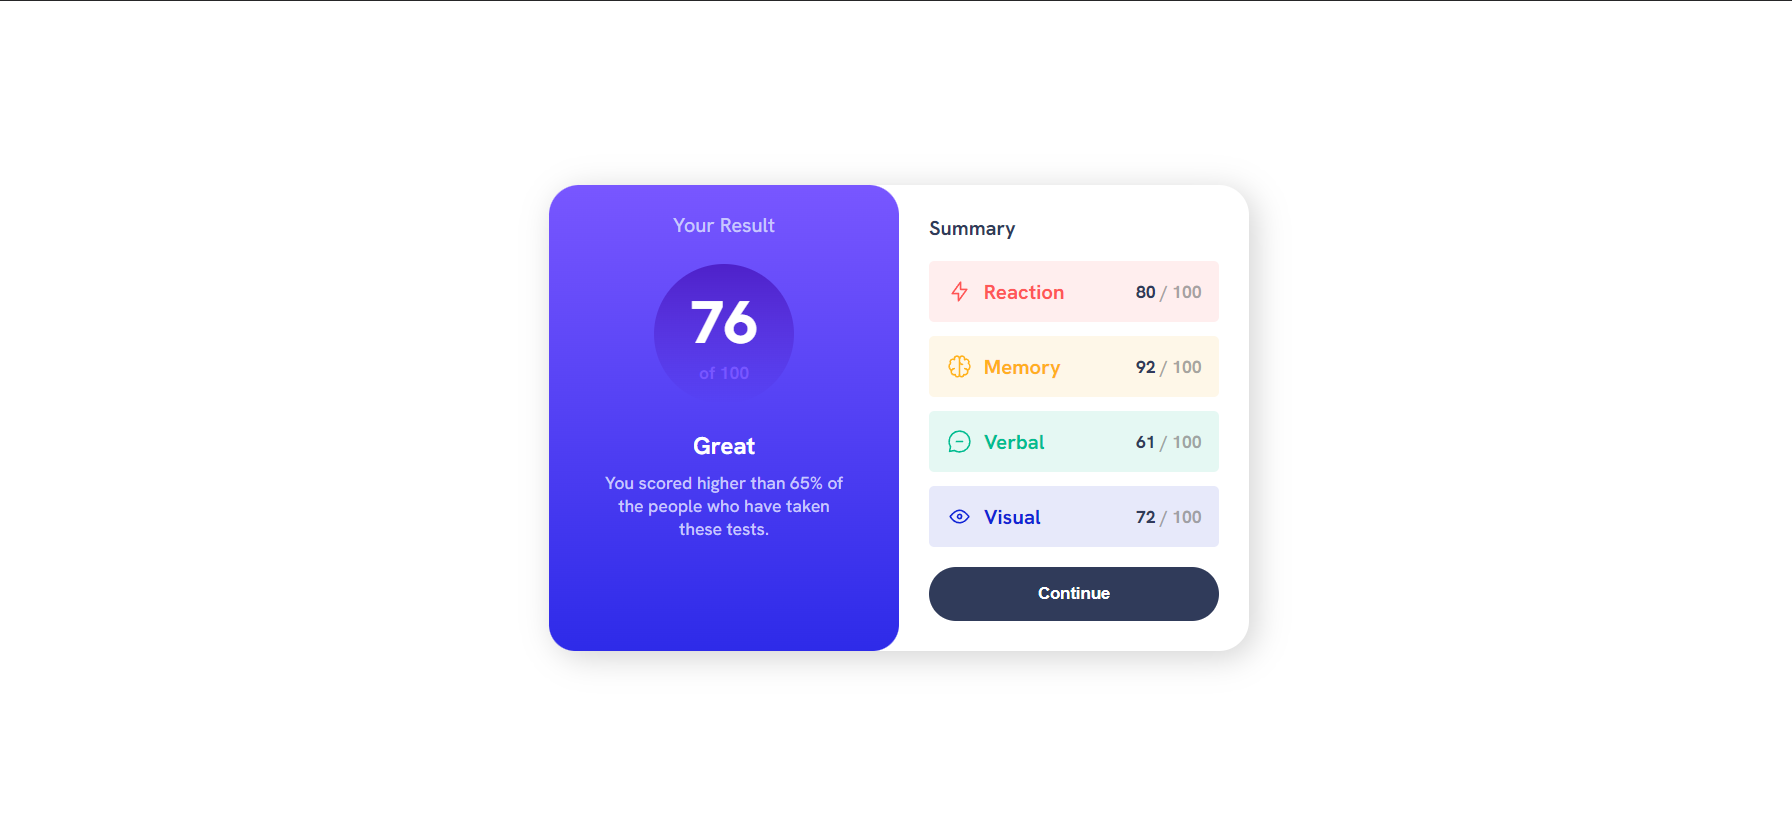
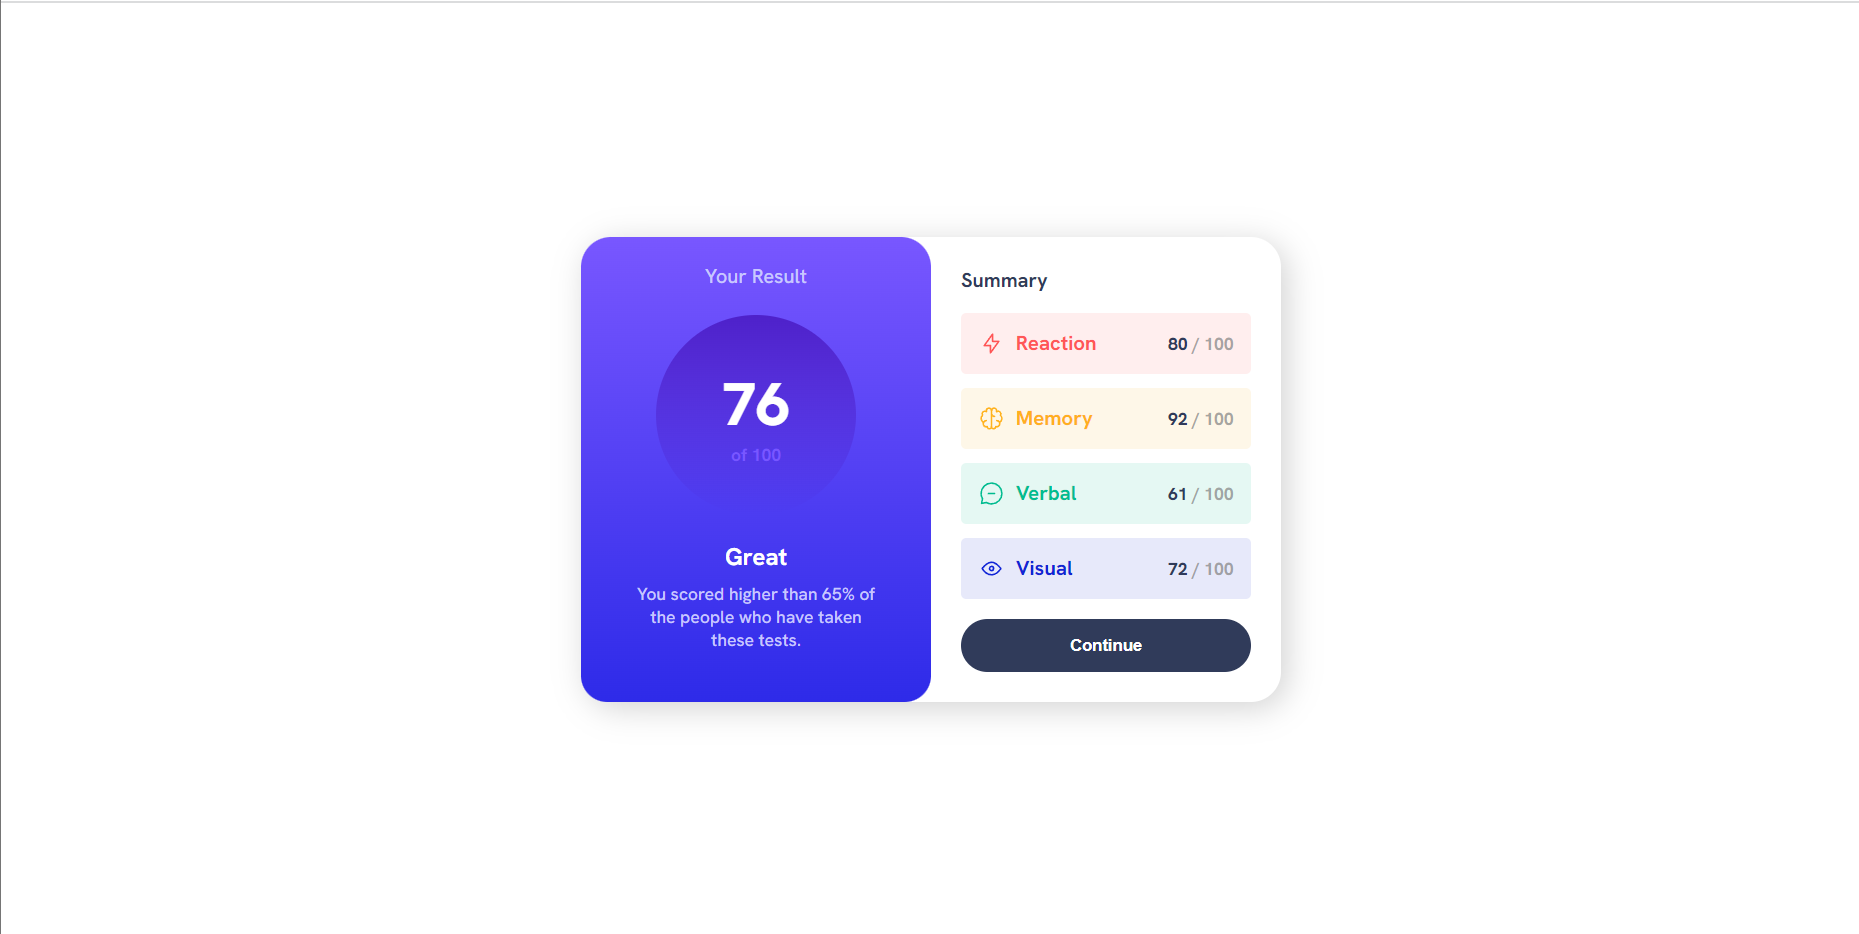
Adjusted css

diff --git a/result-style.css b/result-style.css
@@ -99,12 +99,12 @@ body{
     align-items: center;
     justify-content: center;
 
-    width: 7rem;
+    width: 10rem;
     aspect-ratio: 1/1;
 
     margin: 0.8rem;
 
-    border-radius: 4rem;
+    border-radius: 5rem;
 }
 
 .final-score{
